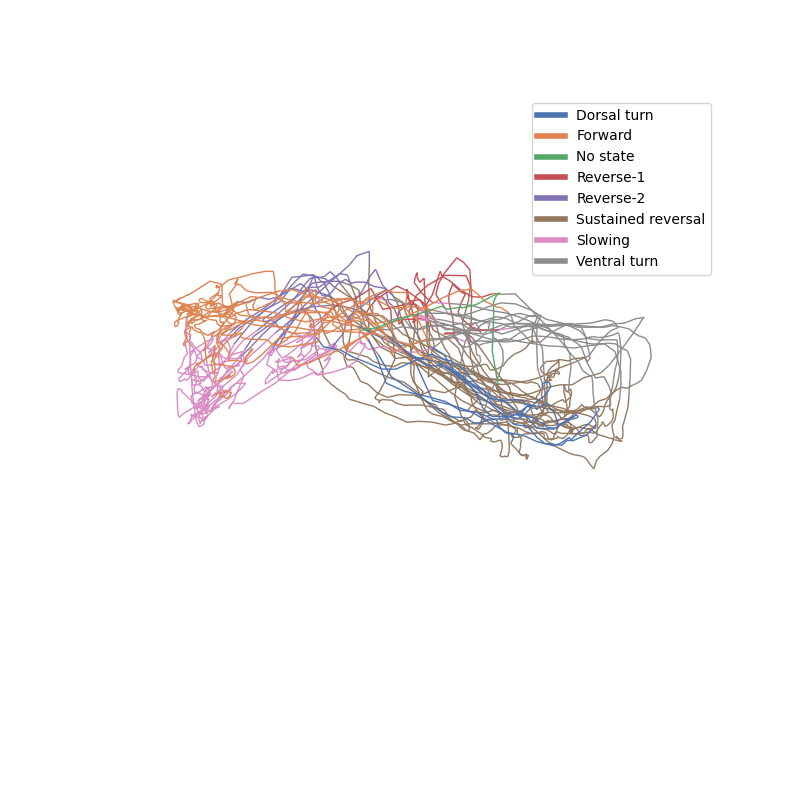
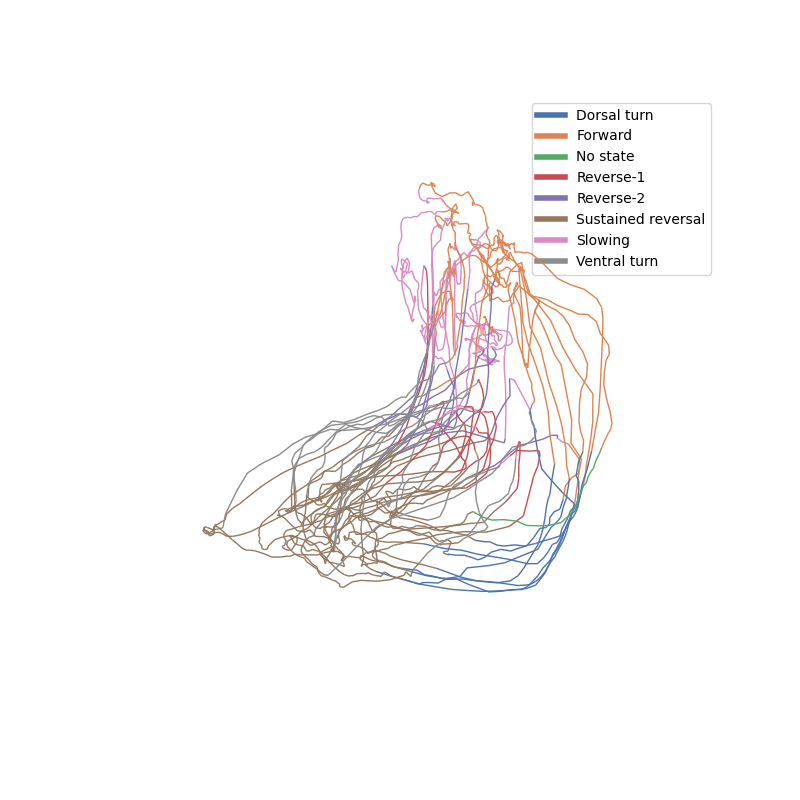
driving dynamics

Changed region(s): [[0.2188, 0.2188, 0.8125, 0.75]]

diff --git a/subsystems_drives_dynamics.py b/subsystems_drives_dynamics.py
@@ -31,38 +31,22 @@ B = data.behaviour
 
 plotting_neuronal_behavioural(X, B, b_names=data.behaviour_names)
 
-# B = np.roll(B, shift=np.random.randint(500,B.shape[0]-500)) # shuffle B by circular permutation
-# B = np.random.permutation(B)
-
 ### Preprocess and prepare data for BundLe Net
-# time, X = preprocess_data(X, data.fps)
 X_, B_ = prep_data(X, B, win=15)
 
 Xs_ = X_[:, :, :, mask == 1]
 Xi_ = X_[:, :, :, mask == 2]
 Xm_ = X_[:, :, :, mask == 3]
 
-
-
-# Xm_ = np.random.permutation(Xi_)
-
 # X_train, X_test, B_train, B_test = timeseries_train_test_split(X_, B_)
 # Xs_, Xs_train, Xs_test = X_[:, :, :, mask == 1], X_train[:, :, :, mask == 1], X_test[:, :, :, mask == 1]
 # Xi_, Xi_train, Xi_test = X_[:, :, :, mask == 2], X_train[:, :, :, mask == 2], X_test[:, :, :, mask == 2]
 # Xm_, Xm_train, Xm_test = X_[:, :, :, mask == 3], X_train[:, :, :, mask == 3], X_test[:, :, :, mask == 3]
 
-
-def set_first_weights_to_zeros(module):
-    for var in module.trainable_variables:
-        var.assign(tf.zeros_like(var))
-        print(var.name)
-        break
-
-
 def _build_tau_network():
     return tf.keras.Sequential([
         layers.Flatten(),
-        layers.Dense(50, activation='relu', kernel_regularizer=tf.keras.regularizers.l1(5e-4)),
+        layers.Dense(50, activation='relu', kernel_regularizer=tf.keras.regularizers.l1(2e-4)),
         layers.Dense(20, activation='relu'),
         layers.Dense(10, activation='relu'),
         layers.Dense(7, activation='relu'),
@@ -74,16 +58,9 @@ def _build_tau_network():
 for i in range(10):
     # Deploy BunDLe Net
     model = BunDLeNet(latent_dim=3, num_behaviour=len(data.behaviour_names))
-    model.post_tau = tf.keras.Sequential([
-        layers.Concatenate(axis=1),
-        layers.GaussianNoise(0.01)
-    ])
+
     model.tau_s, model.tau_i, model.tau_m = _build_tau_network(), _build_tau_network(), _build_tau_network()
     _ = model((Xs_, Xi_, Xm_))
-
-    # # Set the weights of tau_s, tau_i, and tau_m to zeros
-    # for module in [model.tau_s, model.tau_i, model.tau_m]:
-    #     set_first_weights_to_zeros(module)
 
     loss_array, _ = train_model(
         (Xs_, Xi_, Xm_),
@@ -132,3 +109,23 @@ for i in range(10):
     ax.set_ylim3d(-3, 3)
     ax.set_zlim3d(-3, 3)
     plt.show()
+
+direction_vectors = []
+for b in np.unique(B):
+    direction_vectors.append(np.mean( Y0_[B_ == b][1:] - Y0_[B_ == b][:-1], axis=0))
+direction_vectors = np.abs(direction_vectors)
+
+fig, ax = plt.subplots(figsize=(7,7))
+b_names = [data.behaviour_names[i] for i in range(8)]
+ax.bar(b_names, direction_vectors[:, 0], label='Sensory')
+ax.bar(b_names, direction_vectors[:, 1], bottom=direction_vectors[:, 0], label='Interneurons')
+ax.bar(b_names, direction_vectors[:, 2], bottom=direction_vectors[:, 0] + direction_vectors[:, 1], label='Motor')
+
+ax.set_xlabel('Behaviors')
+ax.set_ylabel('Contributions')
+ax.legend()
+
+plt.xticks(rotation=40)
+plt.show()
+
+
